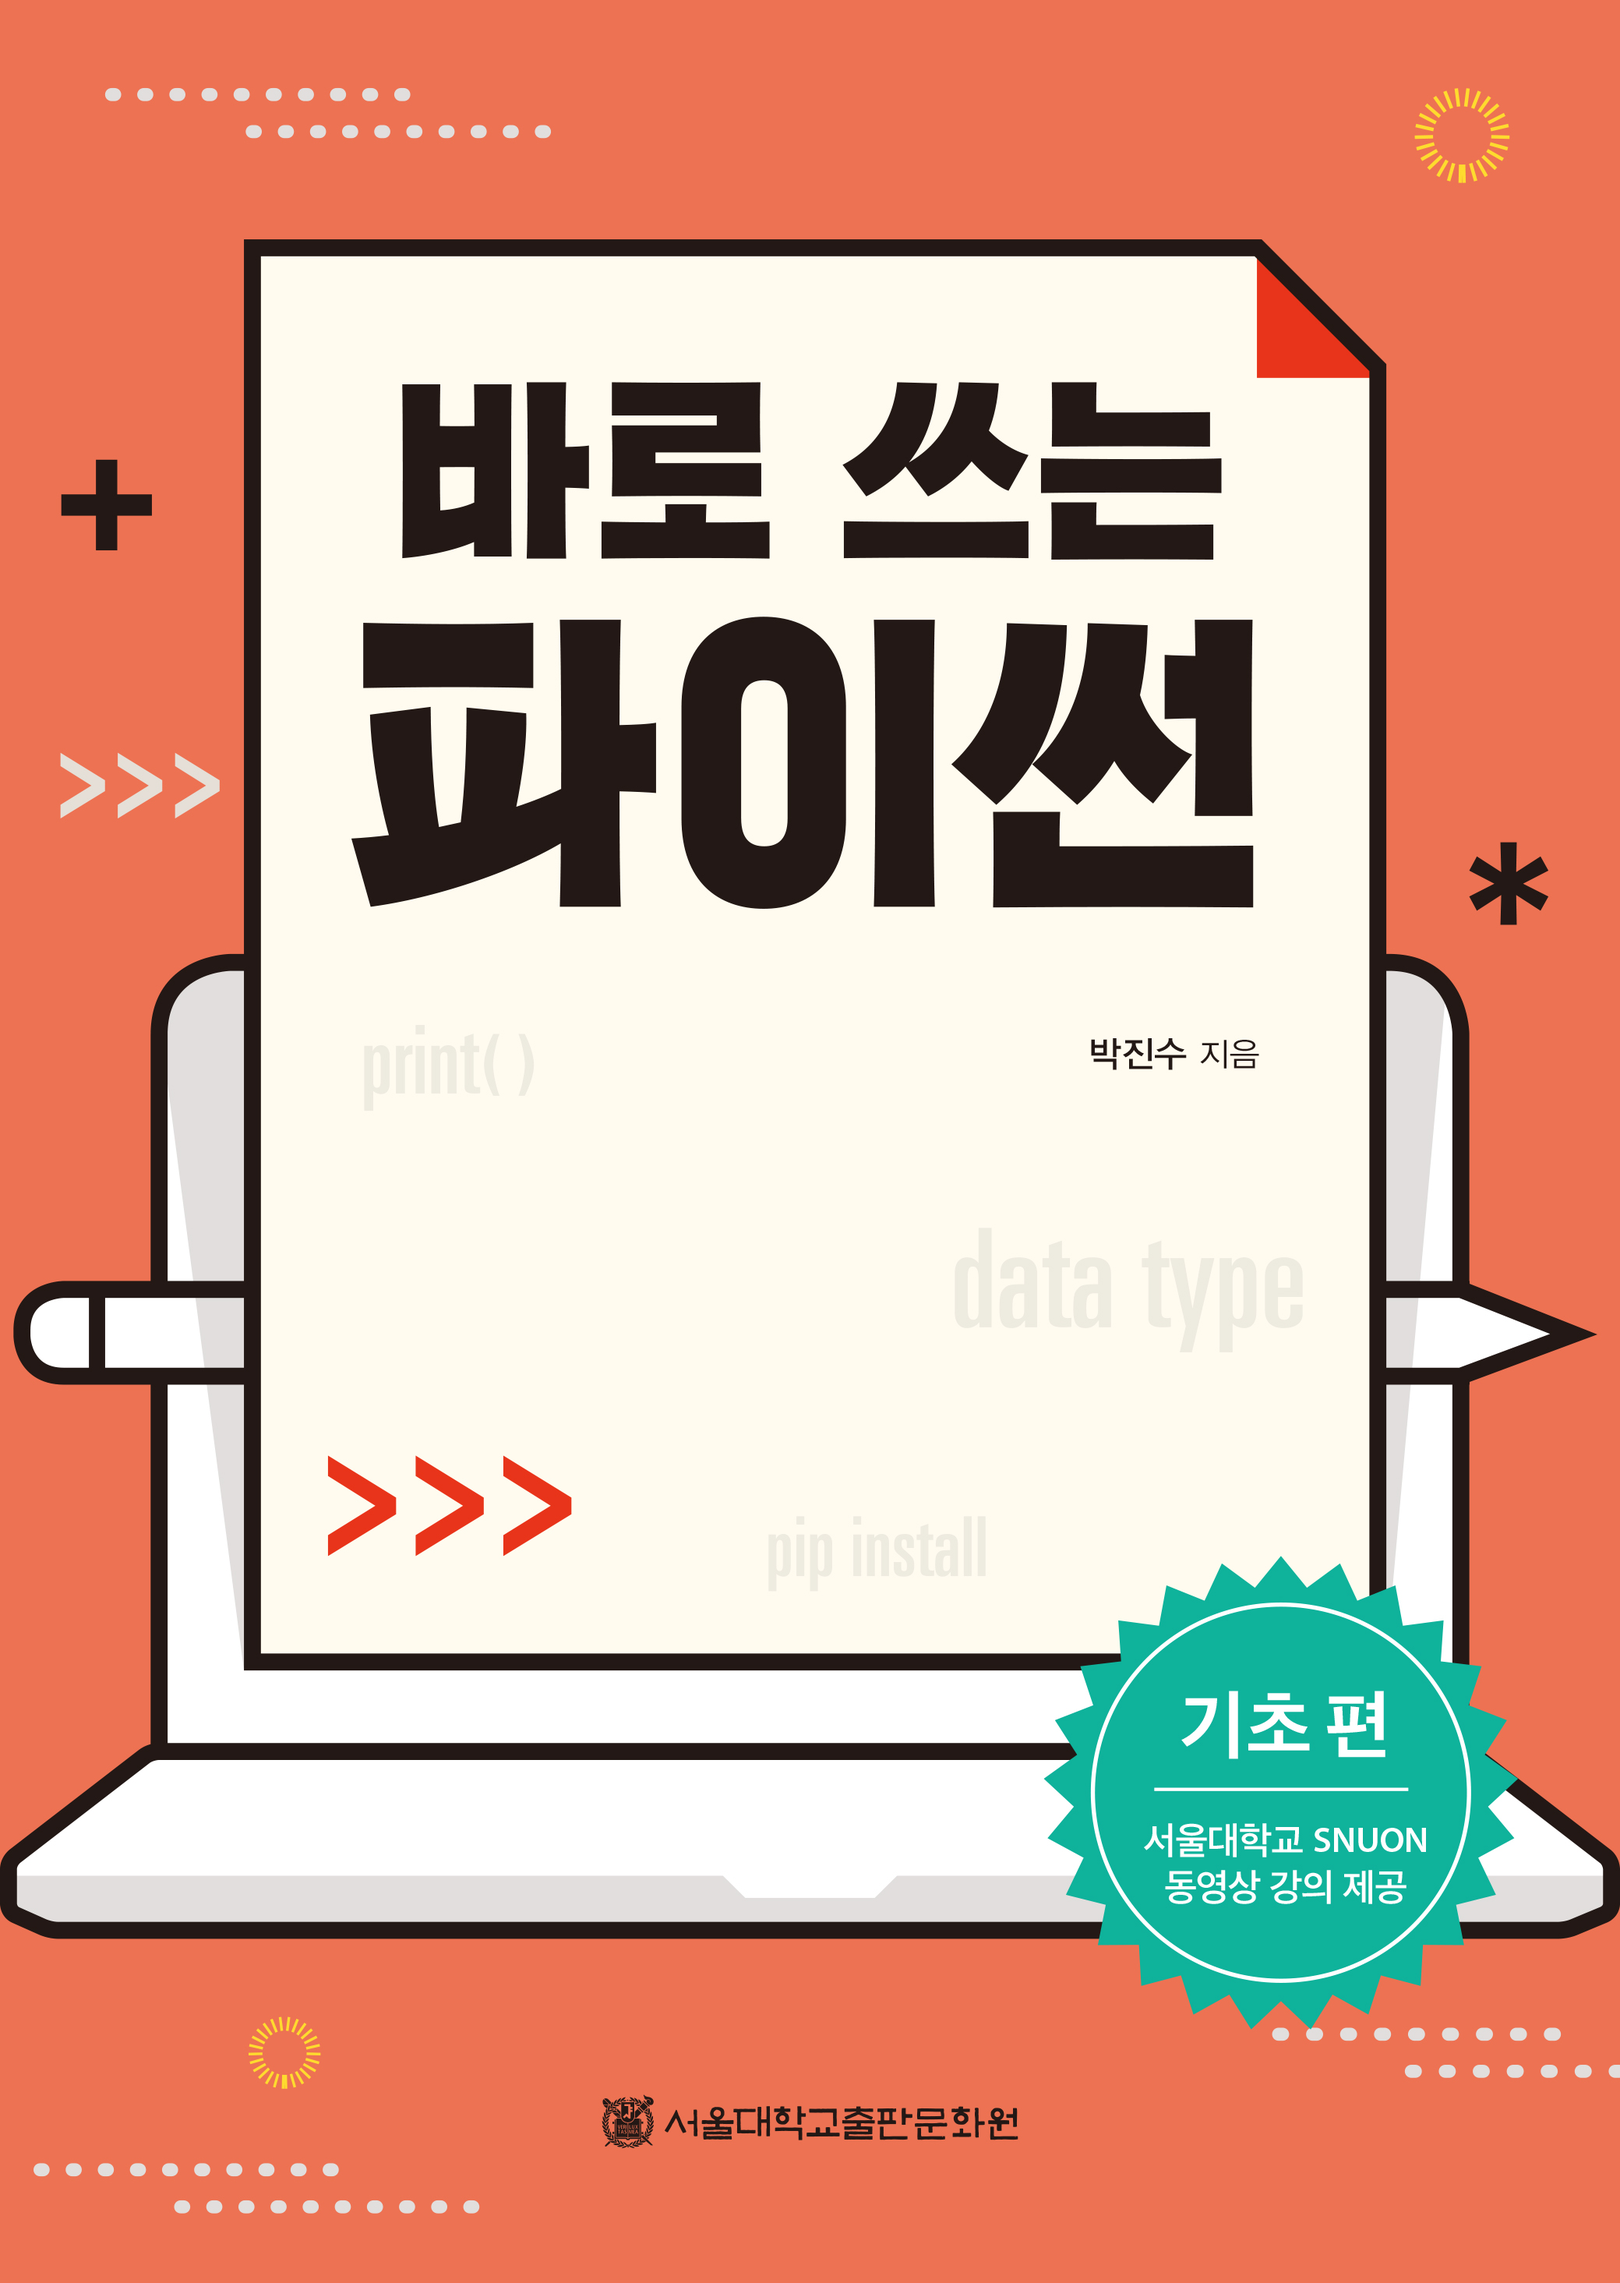
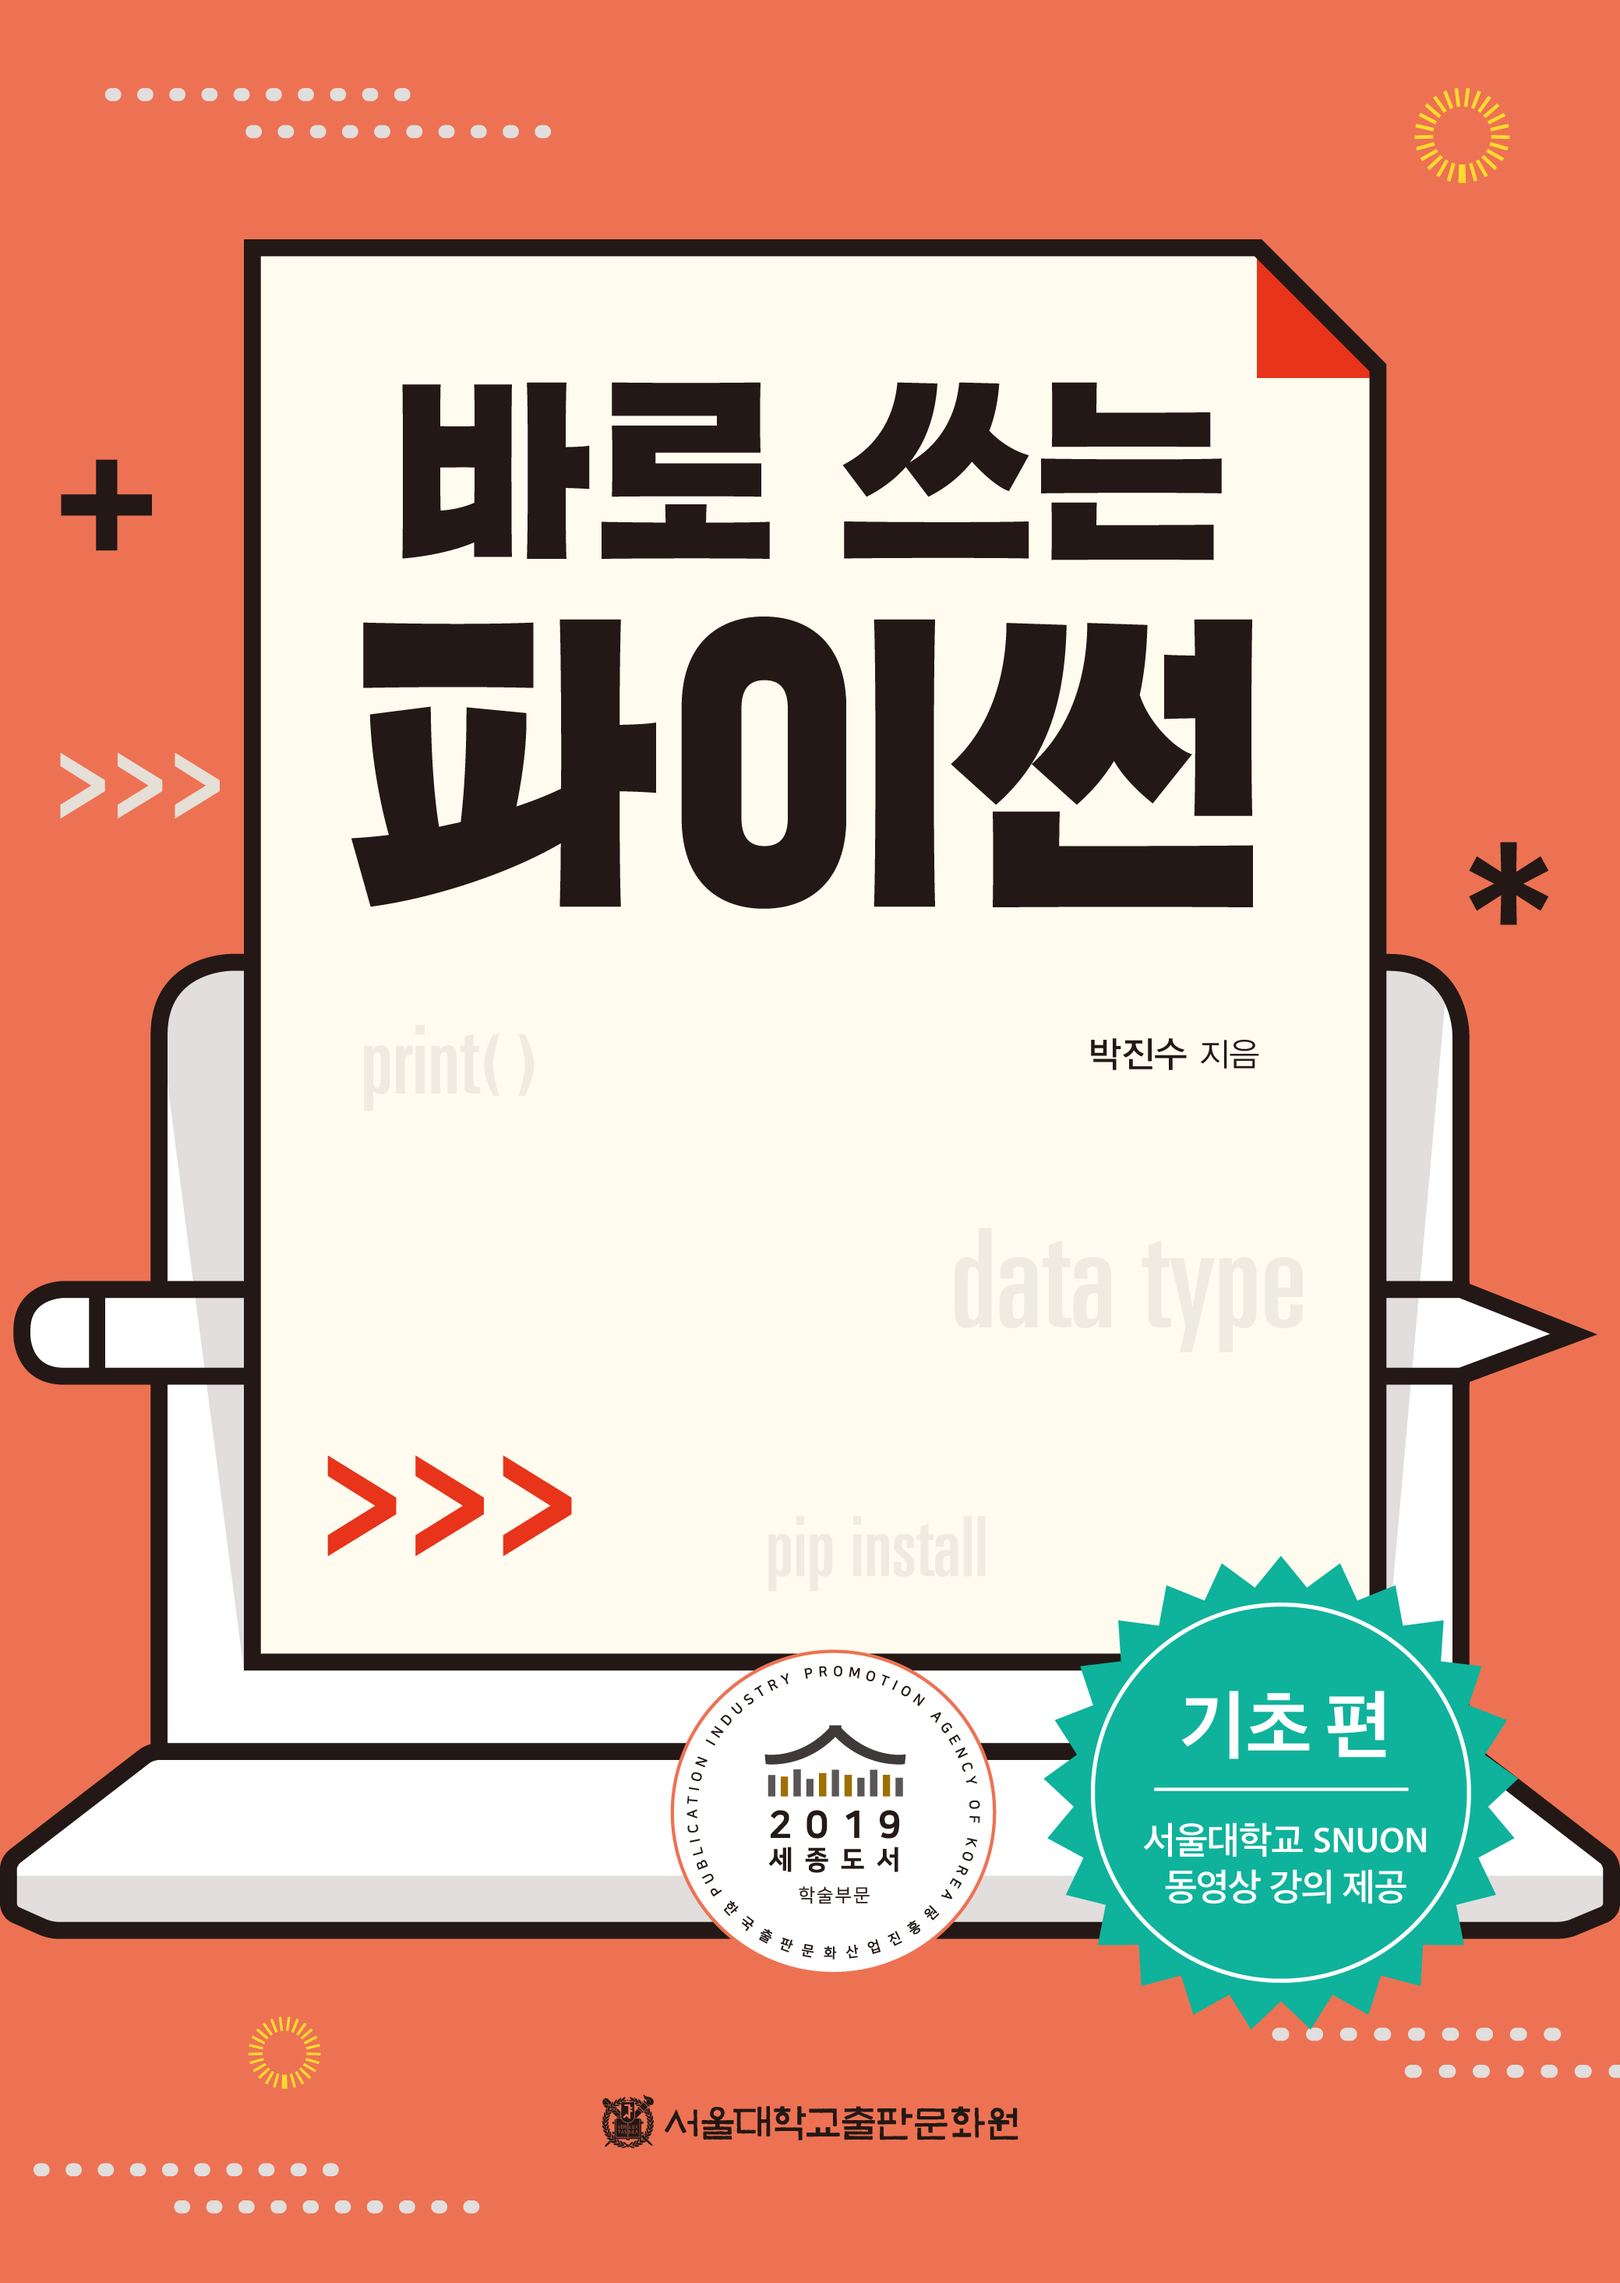
Updated for new edition

Changed region(s): [[0.4002, 0.7146, 0.6157, 0.8699], [0.708, 0.8078, 0.7696, 0.8389], [0.8312, 0.8078, 0.862, 0.8389]]

diff --git a/README.md b/README.md
@@ -1,5 +1,7 @@
 # 바로 쓰는 파이썬: 기초 편
 
+### 2019 세종도서 학술부문 선정
+
 안녕하세요 서울대학교출판문화원입니다. <바로 쓰는 파이썬 기초 편>의 학습 보조 자료를 업로드해드리니 학습에 참고하시기 바랍니다. 자료 목록은 다음과 같습니다.
 - PDF(연습문제 해답, 부록) 
 - 소스 코드(실습문제, 연습문제, 몰라도 바로 따라 쓰는 파이썬, 부록) 
